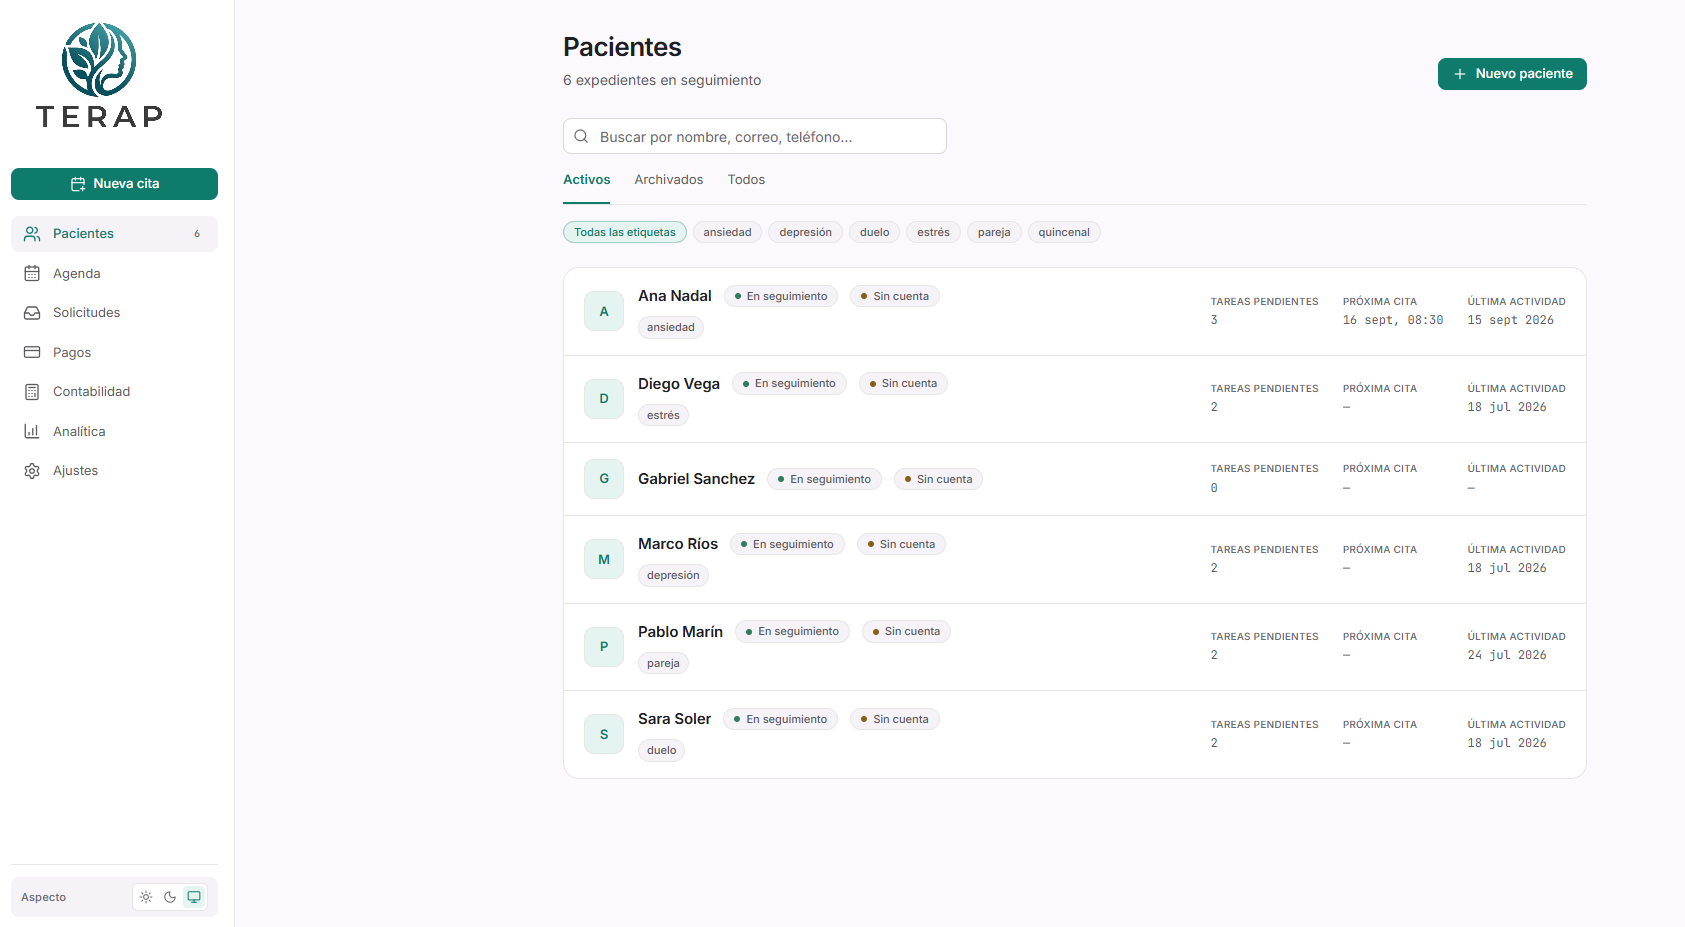
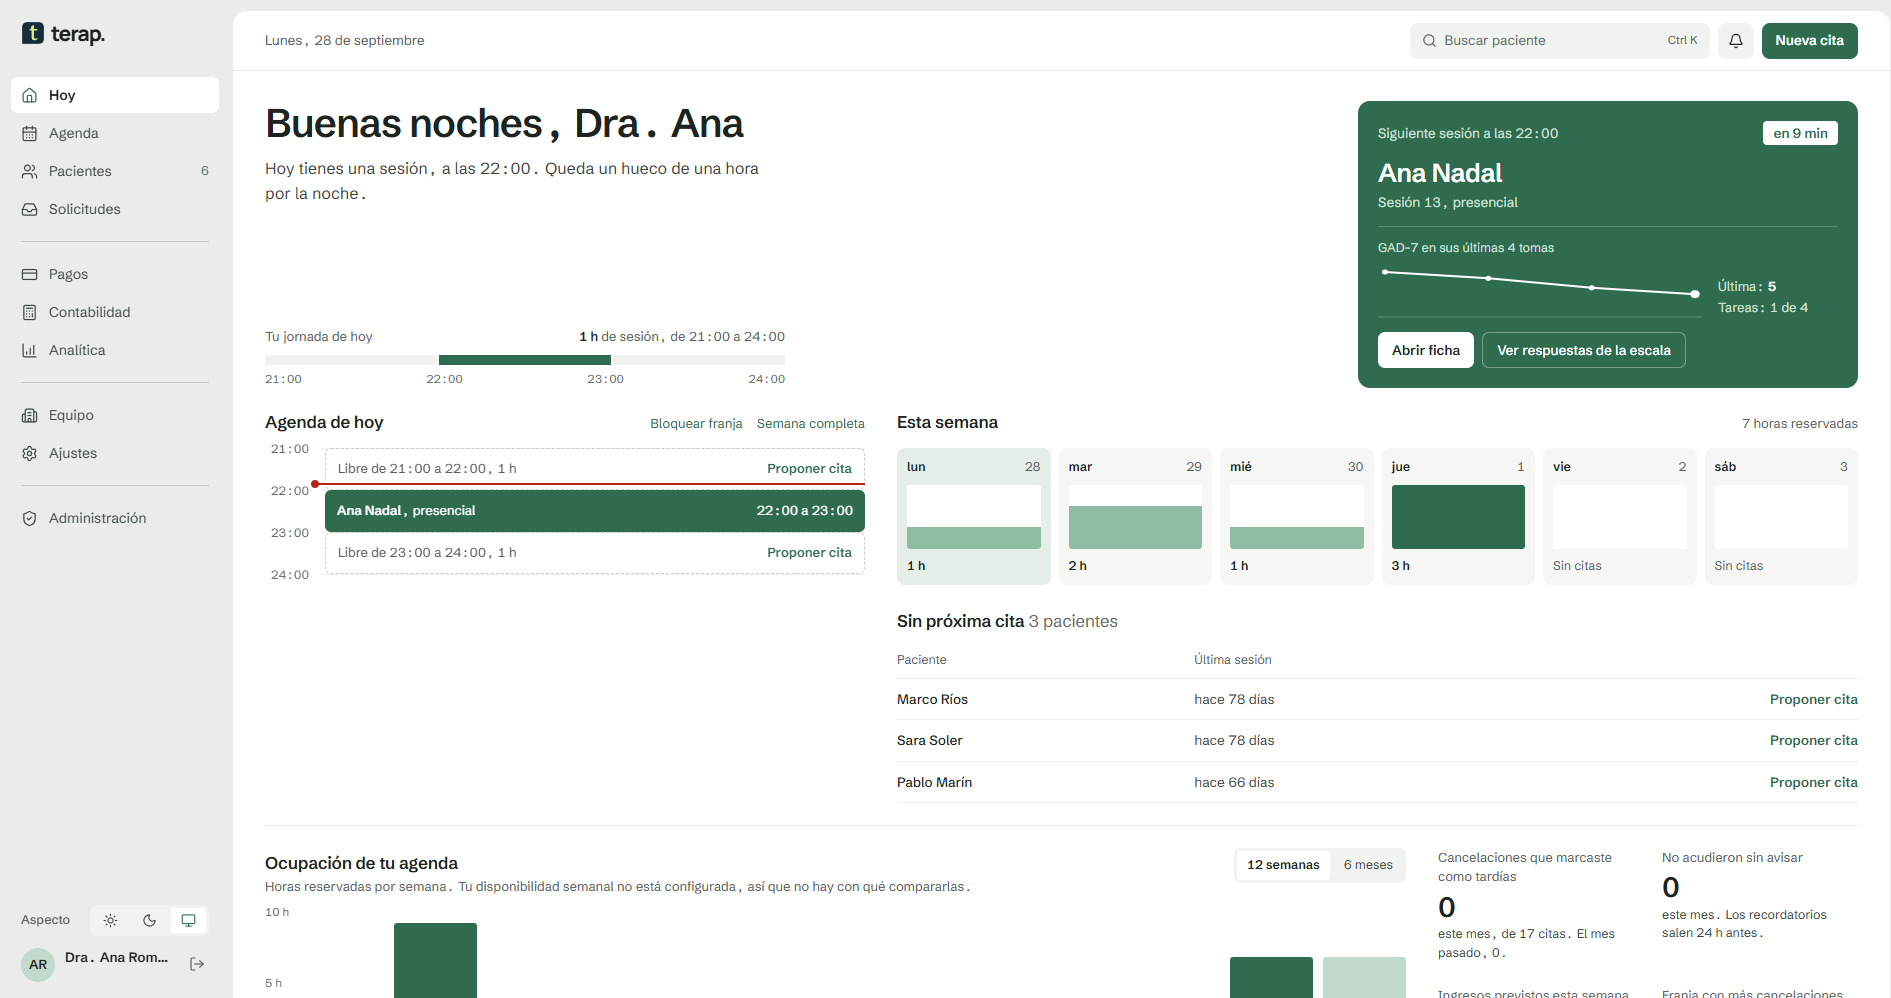
feat(portada): la captura del panel pasa a ser la pantalla «hoy» (#72)
La portada enseñaba el listado de pacientes anterior al rediseño. Se sustituye
por la pantalla «Hoy» actual (1891×998), con el correo de la sesión de la barra
lateral tapado con el color del lienzo: es una página pública. Se ajustan el
texto alternativo, las medidas del <img> y el comentario.

diff --git a/src/app/page.tsx b/src/app/page.tsx
@@ -158,18 +158,18 @@ export default function Home() {
                 Ver a tamaño completo ↗
               </a>
             </div>
-            {/* Captura del panel real, sin recortar ni recomprimir. No es la
-                del paquete de entrega: aquella mostraba el correo personal de
-                la sesión, legible, y esto es una página pública. Esta se hizo
-                con la cuenta de demostración y no enseña ninguna cuenta.
+            {/* Captura del panel real («Hoy», rediseño de septiembre), sin
+                recortar ni recomprimir. La barra lateral enseñaba el correo de
+                la sesión y esto es una página pública: se tapó con el color
+                del lienzo, y ese es el único retoque.
                 Las medidas son las suyas de verdad, para que el hueco quede
                 reservado y la composición no salte al cargar. */}
             <img
               src="/landing-terap/interfaz.png"
-              alt="Interfaz original de Terap: pacientes, expedientes en seguimiento, etiquetas, tareas pendientes, próxima cita y última actividad"
+              alt="Pantalla «Hoy» de Terap: resumen del día, siguiente sesión, agenda de hoy, horas reservadas de la semana, pacientes sin próxima cita y ocupación de la agenda"
               loading="lazy"
-              width={1685}
-              height={927}
+              width={1891}
+              height={998}
             />
             <div className="screen-caption">
               <span>Así es Terap por dentro.</span>

diff --git a/CLAUDE.md b/CLAUDE.md
@@ -173,8 +173,10 @@ bloqueado por DPA + base jurídica del art. 9 RGPD + decisión explícita.
   Las imágenes van con `<img>` y **no** con `next/image`, que reescribiría el
   fichero: la entrega pide conservar la captura sin conversión con pérdida.
   La captura del panel **no es la del paquete**: aquella mostraba un correo
-  personal legible en la sesión. La publicada se hizo con la cuenta de
-  demostración. El paquete de entrega (`terap-landing/`) está en `.gitignore`.
+  personal legible en la sesión. **Desde el 28-sep** es la pantalla «Hoy» del
+  panel rediseñado, con el correo de la barra lateral tapado con el color del
+  lienzo: es página pública, y cualquier captura nueva se revisa por lo mismo.
+  El paquete de entrega (`terap-landing/`) está en `.gitignore`.
 - **El expediente se descarga en un ZIP** desde el paso de revisión
   (`/pro/contabilidad/expediente/[ejercicio]/export`): resumen en PDF, libros en
   XLSX y CSV, los registros del expediente en `registros/*.csv`, índice,
